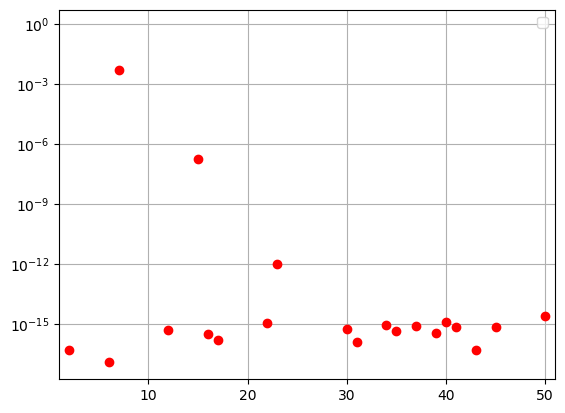
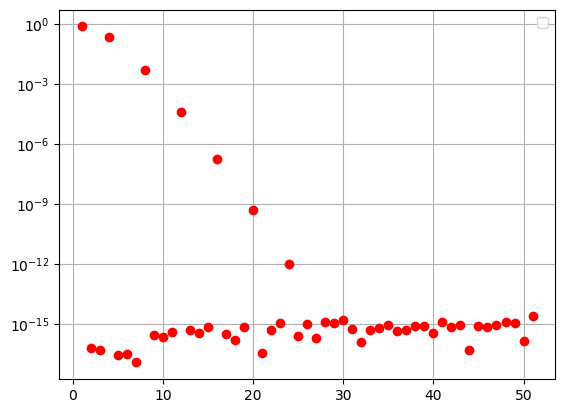
completed till task4

diff --git a/week4/EE19B123_assign4.py b/week4/EE19B123_assign4.py
@@ -1,6 +1,7 @@
 import numpy as np 
 import matplotlib.pyplot as plt 
 from scipy.integrate import quad 
+from scipy.linalg import lstsq
 def exponential(x):
     return np.exp(x)
 
@@ -9,7 +10,7 @@ def coscos(x):
 
 
 class wrapperplots():
-    def __init__(self, xrange = None ,label = None, yrange = None, path  = None,icon ='bo', plottype = 'plot', clear  = True, save = True):
+    def __init__(self, xrange = None ,label = None, yrange = None, path  = None,icon ='r-', plottype = 'plot', clear  = True, save = True):
         super(wrapperplots, self).__init__()
         self.Xrange = xrange
         self.Yrange = yrange
@@ -45,7 +46,7 @@ class wrapperplots():
         elif self.plottype =='semilogx':
             self.ax.semilogx(x, y, self.icon)
         elif self.plottype =='loglog':
-            self.ax.loglog(x, y)
+            self.ax.loglog(x, y, self.icon)
         else:
             print("not supported")
         if self.saver:
@@ -62,7 +63,7 @@ class wrapperplots():
 def plotdata(x,y, xrange = None ,label = None, yrange = None, path  = None, plottype = None, clear  = True):
     assert len(x) ==len(y), "fucntions not same length"
     if plottype =='semilogy': #TODO ad more plot types
-        plt.semilogy(x,y, label =label)
+        plt.semilogy(x,y,'ro' ,label =label)
     else:
         plt.plot(x,y, label = label)
     plt.grid(True)
@@ -87,6 +88,18 @@ def fourier_coeff(n,func):
         coeff[i] = quad(v,0,2*np.pi,args=(i/2))[0]/np.pi
     return coeff
 
+def leastSquareCoef(func):
+    A = np.empty((400,51))
+    x = np.linspace(0,2*np.pi, 401)
+    x = x[:-1]
+    A[:,0] =1 
+    for i in range(1,26):
+        A[:,2*i-1] = np.cos(i*x)
+        A[:,2*i] = np.sin(i*x)
+    b = func(x)
+
+    return A, b
+
 
 if __name__ == "__main__":
     x = np.linspace(-2*np.pi,4*np.pi,300)
@@ -101,18 +114,43 @@ if __name__ == "__main__":
     #plotdata(x, y, xrange=(-2*np.pi, 4*np.pi), path = 'exp_plot',label= 'predicted fucntion', plottype='semilogy')
 
 
-    tr = wrapperplots(xrange=(-2*np.pi, 4*np.pi),label='cos(cos(x))', path = 'cos_plot2')
-    tr(x, coscos(x))
+    #tr = wrapperplots(xrange=(-2*np.pi, 4*np.pi),label='cos(cos(x))', path = 'cos_plot2')
+    #tr(x, coscos(x))
 
     #plotdata(x, coscos(x), xrange=(-2*np.pi, 4*np.pi),label='cos(cos(x))', path = 'cos_plot')
 
-    coef1 = fourier_coeff(51, coscos)
-    print(coef1[0])
-    exit()
+    Fcoef_cos = fourier_coeff(51,coscos)
+    Fcoef_exp = fourier_coeff(51,exponential)
 
-    cos_ff = wrapperplots(icon= 'ro',xrange= (1,51),plottype='semilogy', path='coeff_cos_semilog')
-    cos_ff(range(51), coef1)
-    
+    #cos_ff = wrapperplots(icon= 'ro',plottype='semilogy', path='coeff_cos_semilog')
+    #cos_ff(range(1,52), np.abs(Fcoef_cos))
+
+
+    ##############################################################################################################
+
+    A, bexp = leastSquareCoef(exponential)
+    Lcoef_exp = lstsq(A,bexp)[0]
+
+    A, bcos = leastSquareCoef(coscos)
+    Lcoef_cos = lstsq(A,bcos)[0]
+
+    #cos_ff = wrapperplots(icon= 'ro',plottype='semilogy', path='lstq_cos')
+    #cos_ff(range(1,52), np.abs(Lcoef_cos))
+
+
+    #cos_ff = wrapperplots(icon= 'ro',plottype='semilogy', path='lstq_exp')
+    #cos_ff(range(1,52), np.abs(Lcoef_exp))
+
+    plt.semilogy(range(1,52), np.abs(Lcoef_exp), 'ro')
+    plt.savefig("example.png")
+
+
+    ###########################################################################################################################
+
+
+
+
+
 
 
 
